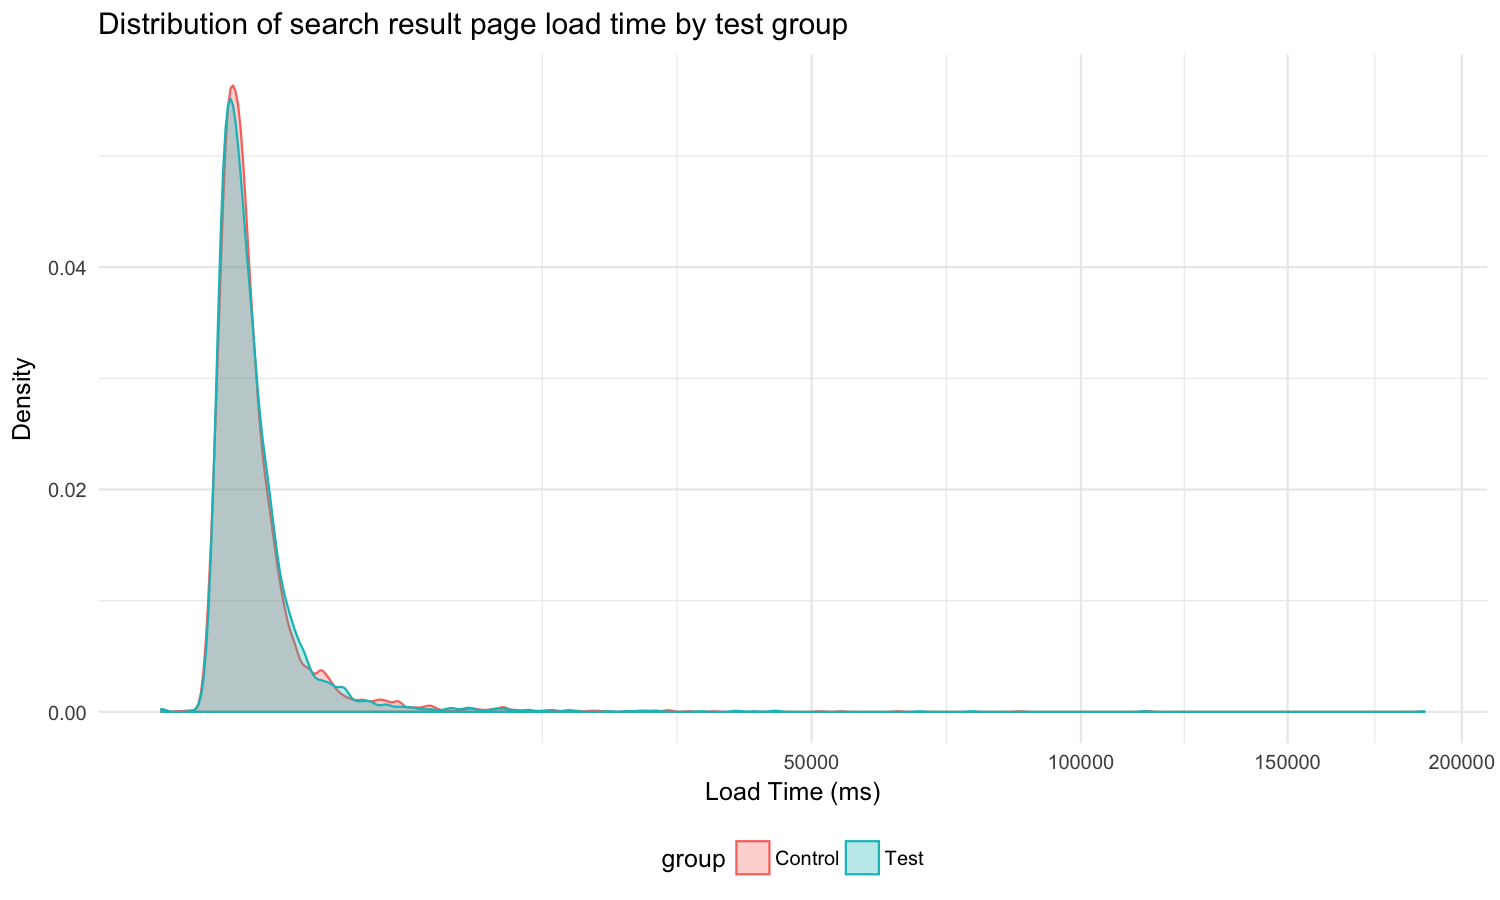
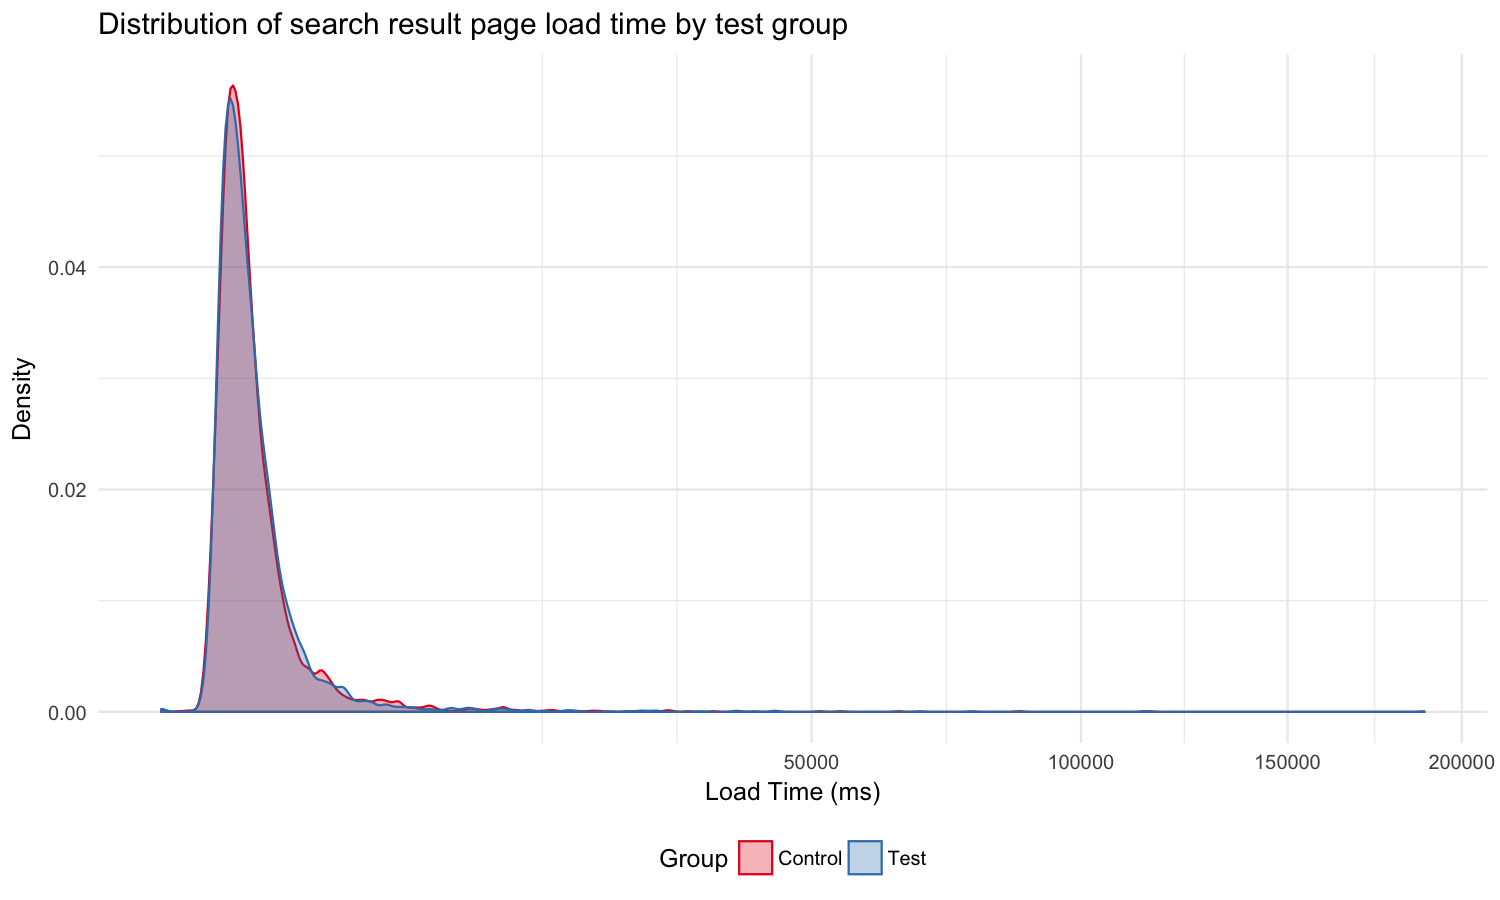
fix load time density plot

Changed region(s): [[0.1227, 0.0933, 0.9507, 0.8089], [0.4293, 0.9333, 0.6133, 0.9956]]

diff --git a/docs/index.html b/docs/index.html
@@ -1071,6 +1071,8 @@ dplyr<span class="op">::</span><span class="kw">bind_rows</span>(<span class="st
 <span class="st">  </span><span class="kw">ggplot</span>(<span class="kw">aes</span>(<span class="dt">x=</span>load_time)) <span class="op">+</span><span class="st"> </span>
 <span class="st">  </span><span class="kw">scale_x_sqrt</span>() <span class="op">+</span><span class="st"> </span>
 <span class="st">  </span><span class="kw">geom_density</span>(<span class="kw">aes</span>(<span class="dt">group=</span>group, <span class="dt">colour=</span>group, <span class="dt">fill=</span>group), <span class="dt">alpha=</span><span class="fl">0.3</span>) <span class="op">+</span><span class="st"> </span>
+<span class="st">  </span><span class="kw">scale_color_brewer</span>(<span class="st">&quot;Group&quot;</span>, <span class="dt">palette =</span> <span class="st">&quot;Set1&quot;</span>) <span class="op">+</span>
+<span class="st">  </span><span class="kw">scale_fill_brewer</span>(<span class="st">&quot;Group&quot;</span>, <span class="dt">palette =</span> <span class="st">&quot;Set1&quot;</span>) <span class="op">+</span>
 <span class="st">  </span><span class="kw">labs</span>(<span class="dt">x =</span> <span class="st">&quot;Load Time (ms)&quot;</span>, <span class="dt">y =</span> <span class="st">&quot;Density&quot;</span>, <span class="dt">title =</span> <span class="st">&quot;Distribution of search result page load time by test group&quot;</span>) <span class="op">+</span>
 <span class="st">  </span><span class="kw">theme_min</span>()</code></pre></div>
 <div class="figure">
